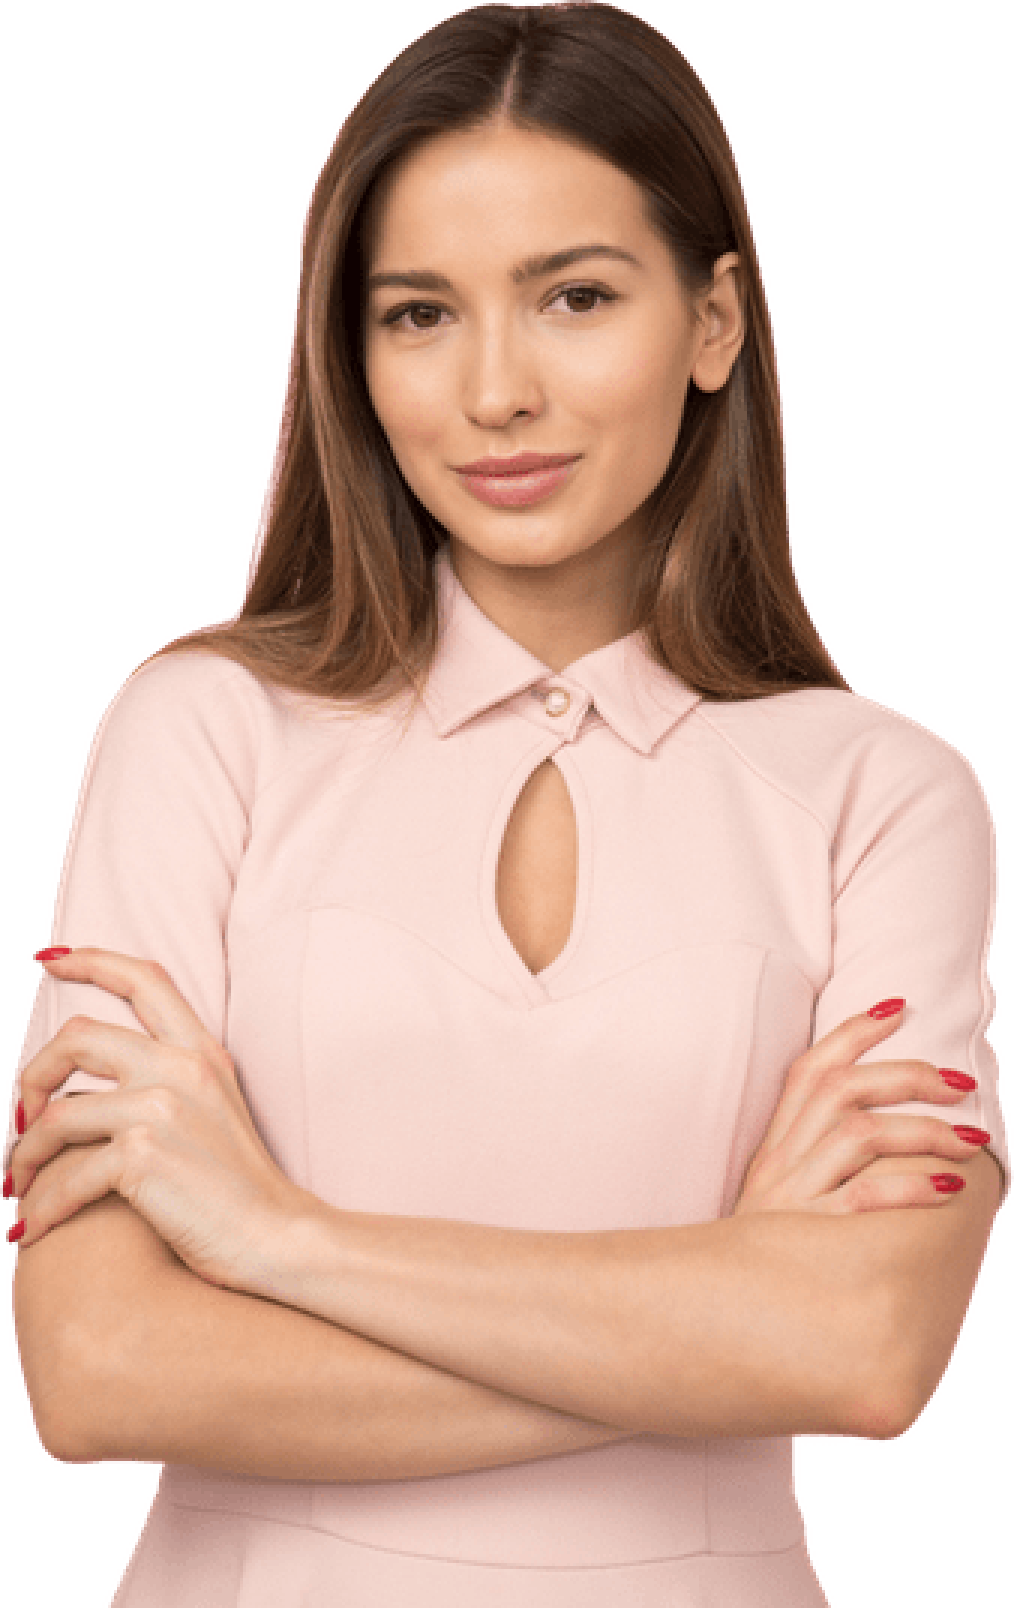
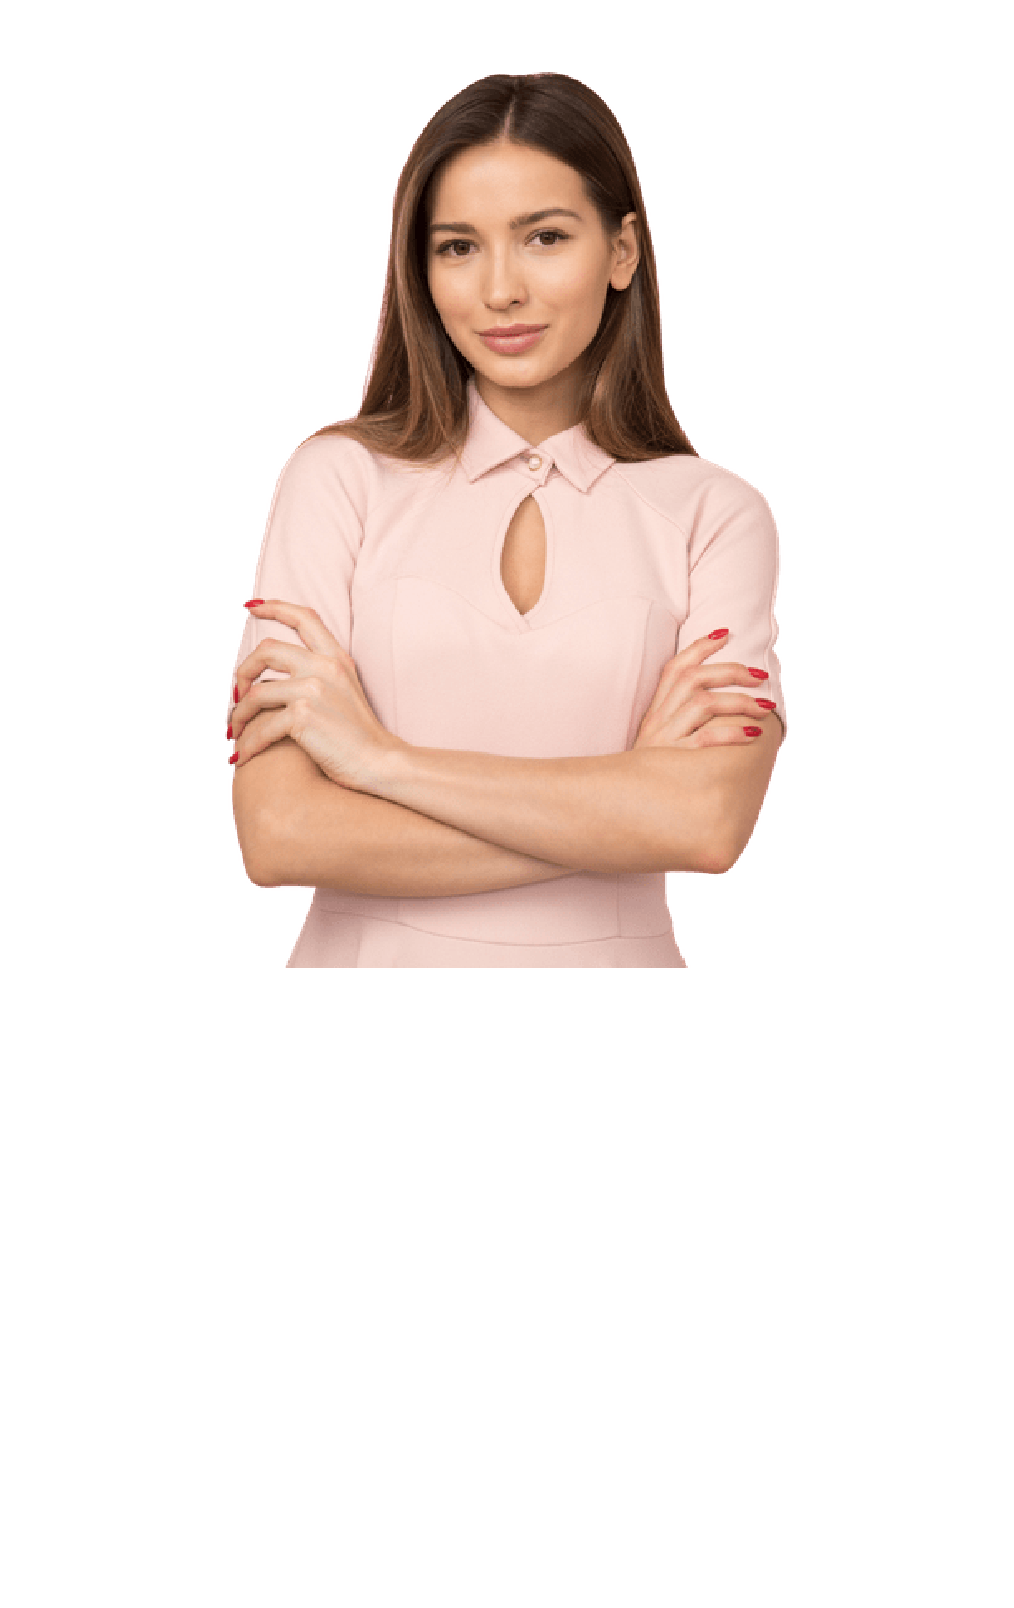
2nd sectio complete

diff --git a/index.html b/index.html
@@ -17,7 +17,7 @@
   </head>
   <body>
     <!-- Top Banner start -->
-    <section class="top-banner">
+    <section class="top-banner flex">
       <!-- Banner Text -->
       <div class="banner-text half-width">
         <h1>
@@ -28,7 +28,7 @@
           We know diet is so boring! Don't worry, we are here for you. we
           provide a Healthy and Delicious food for you.
         </p>
-        <a href="#">Order Food</a>
+        <a href="#" class="link-button">Order Food</a>
       </div>
       <!-- Banner Image -->
       <div class="banner-image half-width">
@@ -36,5 +36,30 @@
       </div>
     </section>
     <!-- Top banner  end-->
+
+    <!-- 2nd banner -->
+
+    <section class="second-banner flex">
+      <div class="banner-image half-width">
+        <img
+          class="girl-image"
+          src="./img/Person Image.png"
+          alt="A healthy girl picture"
+        />
+      </div>
+
+      <div class="banner-text half-width">
+        <h2 class="heading-two">About Me</h2>
+        <p class="heading-two-para">
+          Lorem ipsum dolor sit amet consectetur adipisicing elit. Deleniti
+          quisquam mollitia sequi porro nobis blanditiis dicta est, cum dolorem
+          ex nostrum, similique animi dignissimos quibusdam soluta ab atque
+          inventore ut. Lorem ipsum dolor sit amet, consectetur adipisicing
+          elit. Incidunt maxime cum, optio voluptatibus natus dolorem laudantium
+          inventore aut eveniet ipsa?
+        </p>
+        <a href="#" class="link-button">Order Food</a>
+      </div>
+    </section>
   </body>
 </html>

diff --git a/style.css b/style.css
@@ -18,33 +18,58 @@ p {
   color: orangered;
 }
 
-.top-banner {
-  width: 100vw;
-  height: 100%;
+.flex {
   display: flex;
+  margin-bottom: 20px;
 }
 
 .banner-text h1 {
   font-size: 70px;
-  margin-top: 10%;
+  margin-top: 20%;
 }
-
+h2 {
+  font-size: 50px;
+}
 .half-width {
   width: 50%;
-  margin-left: 20px;
+  padding-left: 20px;
 }
 
-.banner-image img {
-  width: 80%;
+.half-width img {
+  width: 90%;
+  object-fit: cover;
 }
 
 .first-para {
   margin-bottom: 50px;
 }
-a {
+.link-button {
   background-image: linear-gradient(tomato, orange);
-  padding: 10px;
+  padding: 15px 40px;
   text-decoration: none;
   color: white;
-  border-radius: 10px;
+  font-weight: 800;
+  border-radius: 20px 20px 20px 20px;
+}
+
+.heading-two {
+  font-size: 50px;
+  margin-top: 30%;
+}
+
+.heading-two-para {
+  width: 70%;
+  margin-bottom: 50px;
+}
+
+.second-banner {
+  background-image: url(./img/second-bg.png);
+  margin-top: 15%;
+  background-repeat: no-repeat;
+  background-size: contain;
+}
+
+.girl-image {
+  object-position: right;
+  margin-left: 80px;
 }
